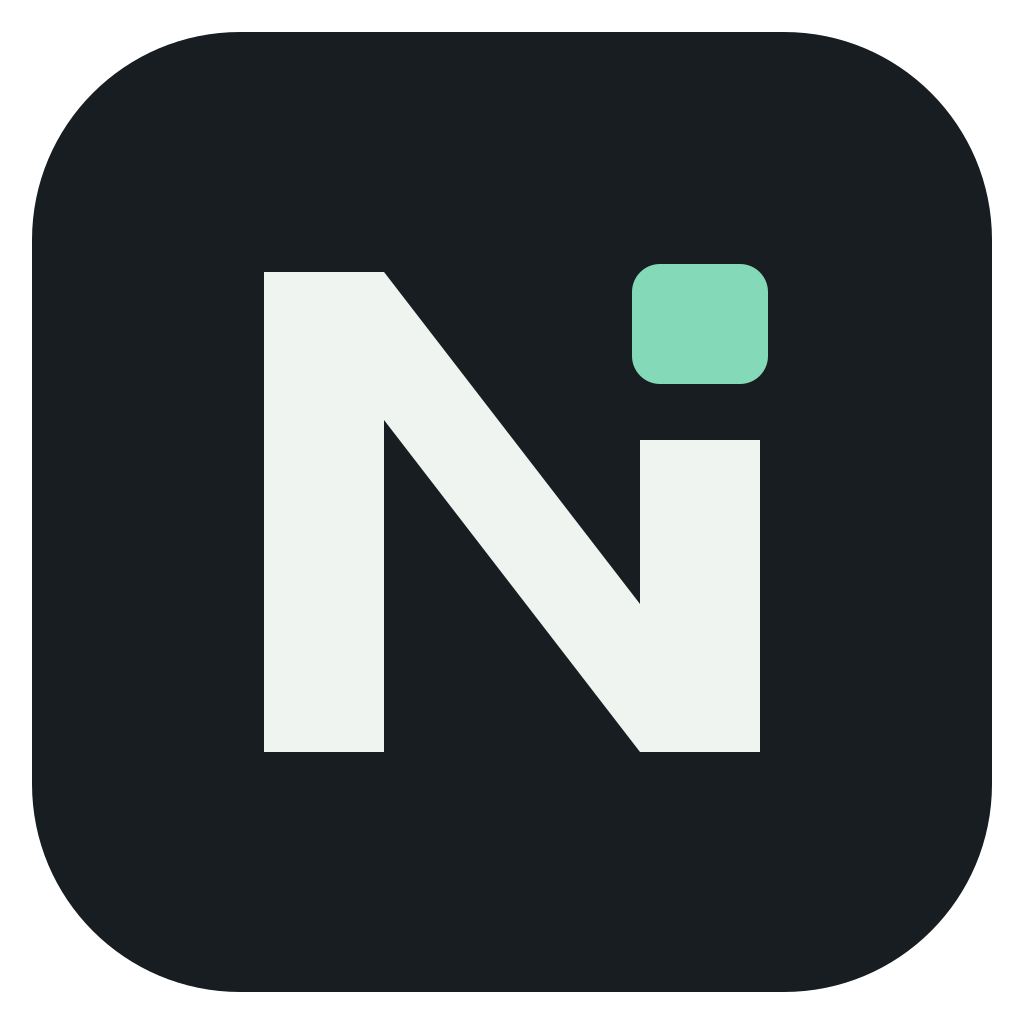
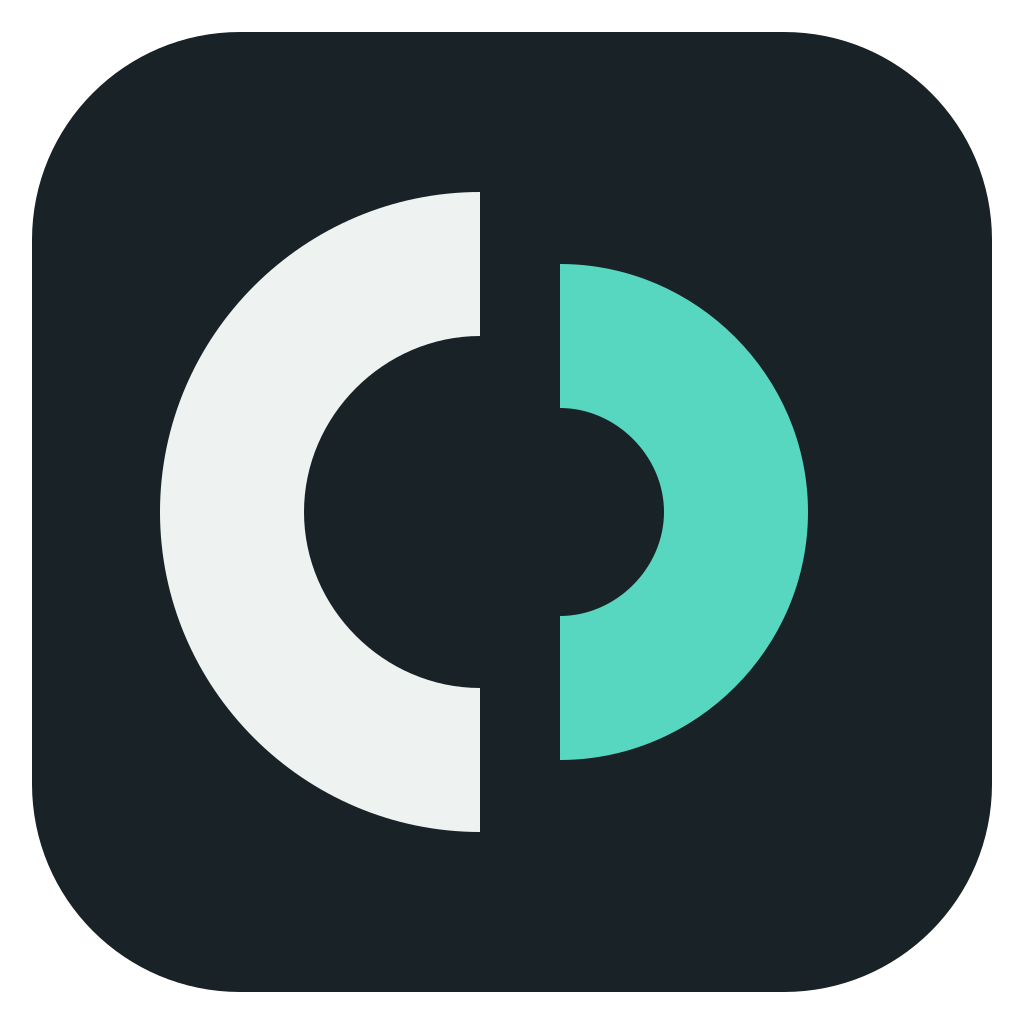
Adopt the open-ring Nexus identity for v0.3.1

Changed region(s): [[0.1562, 0.1875, 0.8125, 0.8125]]

diff --git a/src/ue_node_nexus_mcp/__init__.py b/src/ue_node_nexus_mcp/__init__.py
@@ -2,5 +2,5 @@
 
 __all__ = ["__version__"]
 
-__version__ = "0.3.0"
+__version__ = "0.3.1"
 

diff --git a/release/v0.3.1.md b/release/v0.3.1.md
@@ -1,0 +1,23 @@
+# UE Node Nexus MCP v0.3.1
+
+本次更新采用新的开环抽象标识，并同步到核心插件、VFX 插件、README 和发行包。
+
+- 两侧不同尺度的弧面围合中心留白，表达本地结构的收拢与展开。
+- 深石墨底、浅色与青绿色配色；提供透明标记和可着色的单色 SVG。
+- 提供 16、32、64、128、256、512、1024 像素 PNG，完成小尺寸与明暗背景检查。
+- 两个插件使用同一新版 Icon128.png，Python 与插件显示版本统一为 0.3.1。
+
+本版保留 0.3.0 的操作与同步行为。插件源码、配置、图标和 DLL 由发布脚本校验，
+附件附有 SHA256 与逐文件清单。
+
+## 附件
+
+| 文件 | 用途 |
+|:-----|:-----|
+| `UE-Node-Nexus-MCP-v0.3.1-UE5.5-Win64.zip` | 双插件、源码、新图标、安装说明和 Agent skill |
+| `ue_node_nexus_mcp-0.3.1-py3-none-any.whl` | Python MCP 服务 |
+| `SHA256SUMS.txt` | 附件 SHA256 校验值 |
+| `release-manifest.json` | 源码提交、引擎版本及逐文件校验信息 |
+
+关闭编辑器，将 ZIP 中的 `Plugins/` 合并到工程根目录，安装本版 Wheel 后重新启动。
+目标环境为 UE 5.5.4 Launcher / Windows x64，模块 BuildId `37670630`。

diff --git a/README.md b/README.md
@@ -51,7 +51,7 @@ UE 材质、蓝图等资产包含大量节点、引脚和属性。传统的 MCP 
 
 ```bat
 py -3 -m venv .venv
-.venv\Scripts\python.exe -m pip install ue_node_nexus_mcp-0.3.0-py3-none-any.whl
+.venv\Scripts\python.exe -m pip install ue_node_nexus_mcp-0.3.1-py3-none-any.whl
 ```
 
 源码安装与构建流程如下。
@@ -233,6 +233,7 @@ ue_sync("status")
 
 ```
 UE-Node-Nexus-MCP/
+  assets/branding/         项目标识、透明标记和单色 SVG
   Plugins/
     UeNodeNexusBridge/       核心编辑器插件
     UeNodeNexusVfxBridge/    VFX 插件

diff --git a/release/INSTALL.md b/release/INSTALL.md
@@ -10,7 +10,7 @@
 
    ```bat
    py -3 -m venv .venv
-   .venv\Scripts\python.exe -m pip install ue_node_nexus_mcp-0.3.0-py3-none-any.whl
+   .venv\Scripts\python.exe -m pip install ue_node_nexus_mcp-0.3.1-py3-none-any.whl
    ```
 
 3. Configure your MCP client to run the absolute path to
